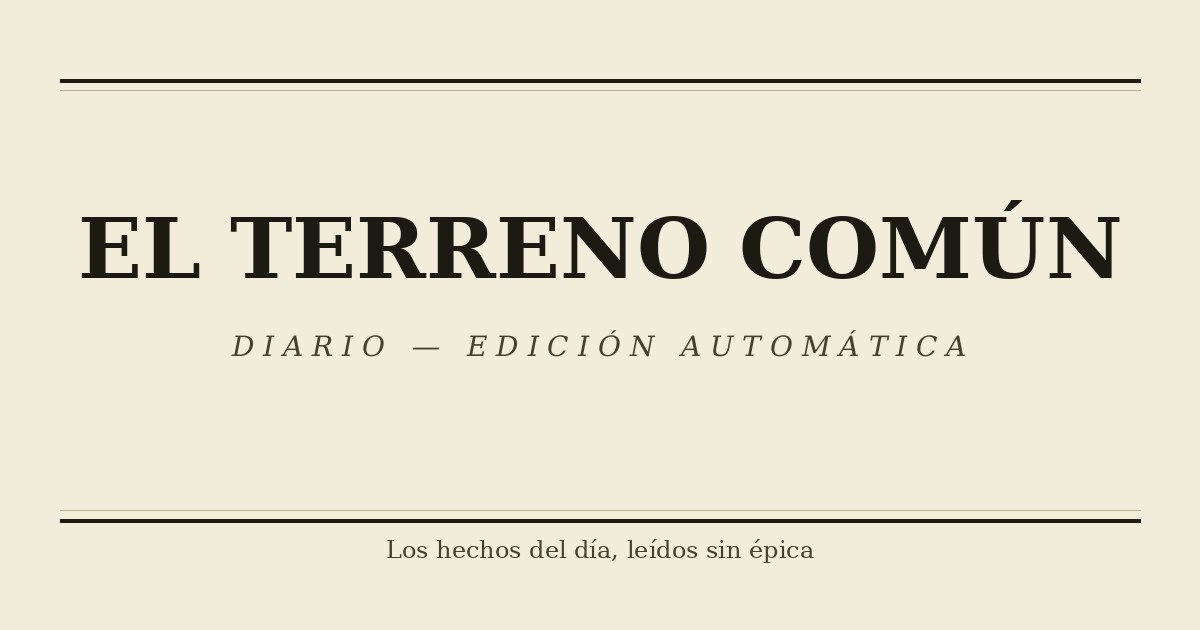
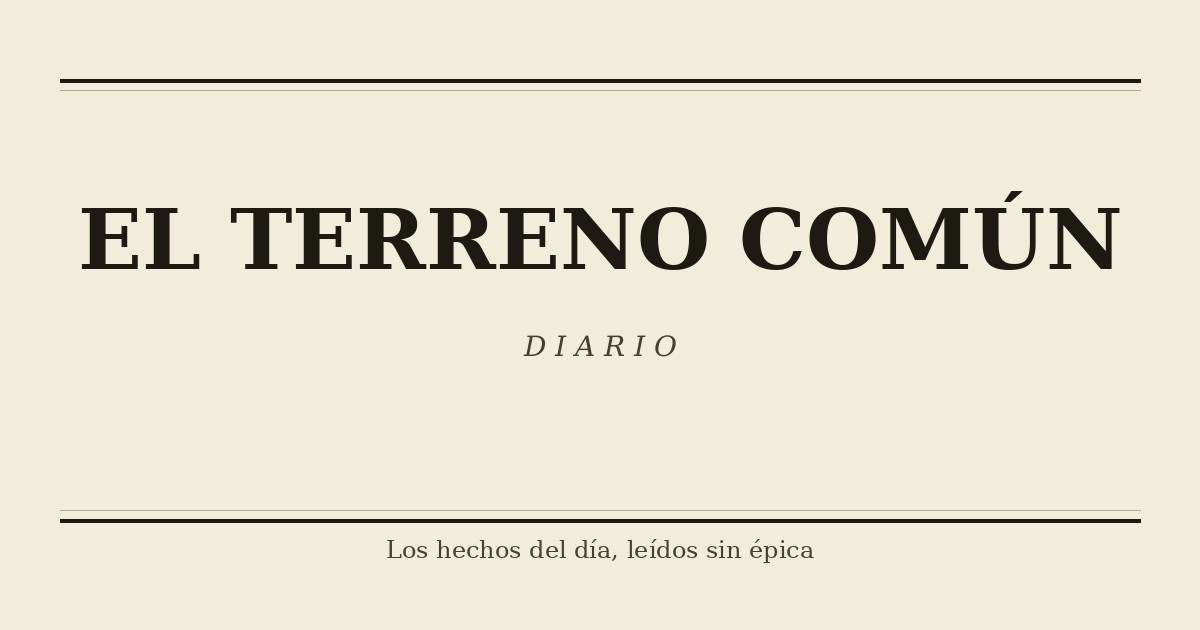
Quitar menciones a la edición automática
Claude-Session: https://claude.ai/code/session_01LiKFGot9unfMPmkqbdGnBA

diff --git a/index.html b/index.html
@@ -22,7 +22,7 @@
   <div class="top-rule"></div>
   <div class="kicker-row">
     <span>Madrid — Año I, n.º 1</span>
-    <span>Edición automática diaria</span>
+    <span>11 de octubre de 2026</span>
   </div>
   <h1><a href="index.html">El Terreno Común</a></h1>
   <p class="tagline">Los hechos del día, leídos sin épica</p>
@@ -89,7 +89,7 @@
   </div>
 </main>
 <footer>
-  Edición generada automáticamente a partir de los hechos del día · <a href="hemeroteca.html">Hemeroteca completa</a>
+  El Terreno Común · <a href="hemeroteca.html">Hemeroteca completa</a>
 </footer>
 </body>
 </html>

diff --git a/articulos/2026-10-11-crecimiento-no-habitar.html b/articulos/2026-10-11-crecimiento-no-habitar.html
@@ -71,7 +71,7 @@
   </div>
 </main>
 <footer>
-  Edición generada automáticamente a partir de los hechos del día · <a href="../hemeroteca.html">Hemeroteca completa</a>
+  El Terreno Común · <a href="../hemeroteca.html">Hemeroteca completa</a>
 </footer>
 <script src="../assets/script.js"></script>
 </body>

diff --git a/articulos/2026-10-11-cuerpos-sin-expediente.html b/articulos/2026-10-11-cuerpos-sin-expediente.html
@@ -68,7 +68,7 @@
   </div>
 </main>
 <footer>
-  Edición generada automáticamente a partir de los hechos del día · <a href="../hemeroteca.html">Hemeroteca completa</a>
+  El Terreno Común · <a href="../hemeroteca.html">Hemeroteca completa</a>
 </footer>
 <script src="../assets/script.js"></script>
 </body>

diff --git a/articulos/2026-10-11-los-ciervos.html b/articulos/2026-10-11-los-ciervos.html
@@ -69,7 +69,7 @@
   </div>
 </main>
 <footer>
-  Edición generada automáticamente a partir de los hechos del día · <a href="../hemeroteca.html">Hemeroteca completa</a>
+  El Terreno Común · <a href="../hemeroteca.html">Hemeroteca completa</a>
 </footer>
 <script src="../assets/script.js"></script>
 </body>

diff --git a/articulos/2026-10-11-maquina-que-acusa.html b/articulos/2026-10-11-maquina-que-acusa.html
@@ -70,7 +70,7 @@
   </div>
 </main>
 <footer>
-  Edición generada automáticamente a partir de los hechos del día · <a href="../hemeroteca.html">Hemeroteca completa</a>
+  El Terreno Común · <a href="../hemeroteca.html">Hemeroteca completa</a>
 </footer>
 <script src="../assets/script.js"></script>
 </body>

diff --git a/articulos/2026-10-11-mujer-disuelve-cortes.html b/articulos/2026-10-11-mujer-disuelve-cortes.html
@@ -70,7 +70,7 @@
   </div>
 </main>
 <footer>
-  Edición generada automáticamente a partir de los hechos del día · <a href="../hemeroteca.html">Hemeroteca completa</a>
+  El Terreno Común · <a href="../hemeroteca.html">Hemeroteca completa</a>
 </footer>
 <script src="../assets/script.js"></script>
 </body>

diff --git a/articulos/2026-10-11-soberania-puntos-basicos.html b/articulos/2026-10-11-soberania-puntos-basicos.html
@@ -69,7 +69,7 @@
   </div>
 </main>
 <footer>
-  Edición generada automáticamente a partir de los hechos del día · <a href="../hemeroteca.html">Hemeroteca completa</a>
+  El Terreno Común · <a href="../hemeroteca.html">Hemeroteca completa</a>
 </footer>
 <script src="../assets/script.js"></script>
 </body>

diff --git a/ediciones/2026-10-11.html b/ediciones/2026-10-11.html
@@ -89,7 +89,7 @@
   </div>
 </main>
 <footer>
-  Edición generada automáticamente a partir de los hechos del día · <a href="../hemeroteca.html">Hemeroteca completa</a>
+  El Terreno Común · <a href="../hemeroteca.html">Hemeroteca completa</a>
 </footer>
 </body>
 </html>

diff --git a/hemeroteca.html b/hemeroteca.html
@@ -36,7 +36,7 @@
 </main>
 
 <footer>
-  Edición generada automáticamente a partir de los hechos del día · <a href="index.html">Volver a la portada</a>
+  El Terreno Común · <a href="index.html">Volver a la portada</a>
 </footer>
 </body>
 </html>

diff --git a/generate_edition.py b/generate_edition.py
@@ -80,7 +80,7 @@ HEAD = """<!doctype html>
 """
 
 FOOT = """<footer>
-  Edición generada automáticamente a partir de los hechos del día · <a href="{rel}hemeroteca.html">Hemeroteca completa</a>
+  El Terreno Común · <a href="{rel}hemeroteca.html">Hemeroteca completa</a>
 </footer>
 """
 
@@ -211,7 +211,7 @@ def render_front_page(meta, articles, rel, canonical_base, og_url):
         og_title=f"El Terreno Común — Edición del {meta['date_long']}",
         rel=rel,
         edition_number=meta["edition_number"],
-        header_right="Edición automática diaria" if rel == "" else "Edición archivada",
+        header_right=meta["date_long"] if rel == "" else "Edición archivada",
         weekday_long_cap=meta["weekday_long"].capitalize(),
         date_long=meta["date_long"],
         articles_block=blocks,

diff --git a/INSTRUCCIONES_EDICION.md b/INSTRUCCIONES_EDICION.md
@@ -75,5 +75,7 @@ Cada artículo lleva: titular, bajada (una frase), sección (por ejemplo
 - Autor de los commits, siempre:
   `El Terreno Común <341140003+ElTerrenoComun@users.noreply.github.com>`.
   Nunca un nombre real ni un correo personal.
+- En las páginas publicadas no debe aparecer en ningún sitio que la edición
+  se genera de forma automática (ni en cabecera, ni en pie, ni en textos).
 - Mensaje de commit: `Edición del AAAA-MM-DD`.
 - `git push` a la rama `main`. GitHub Pages publica solo en un minuto o dos.
